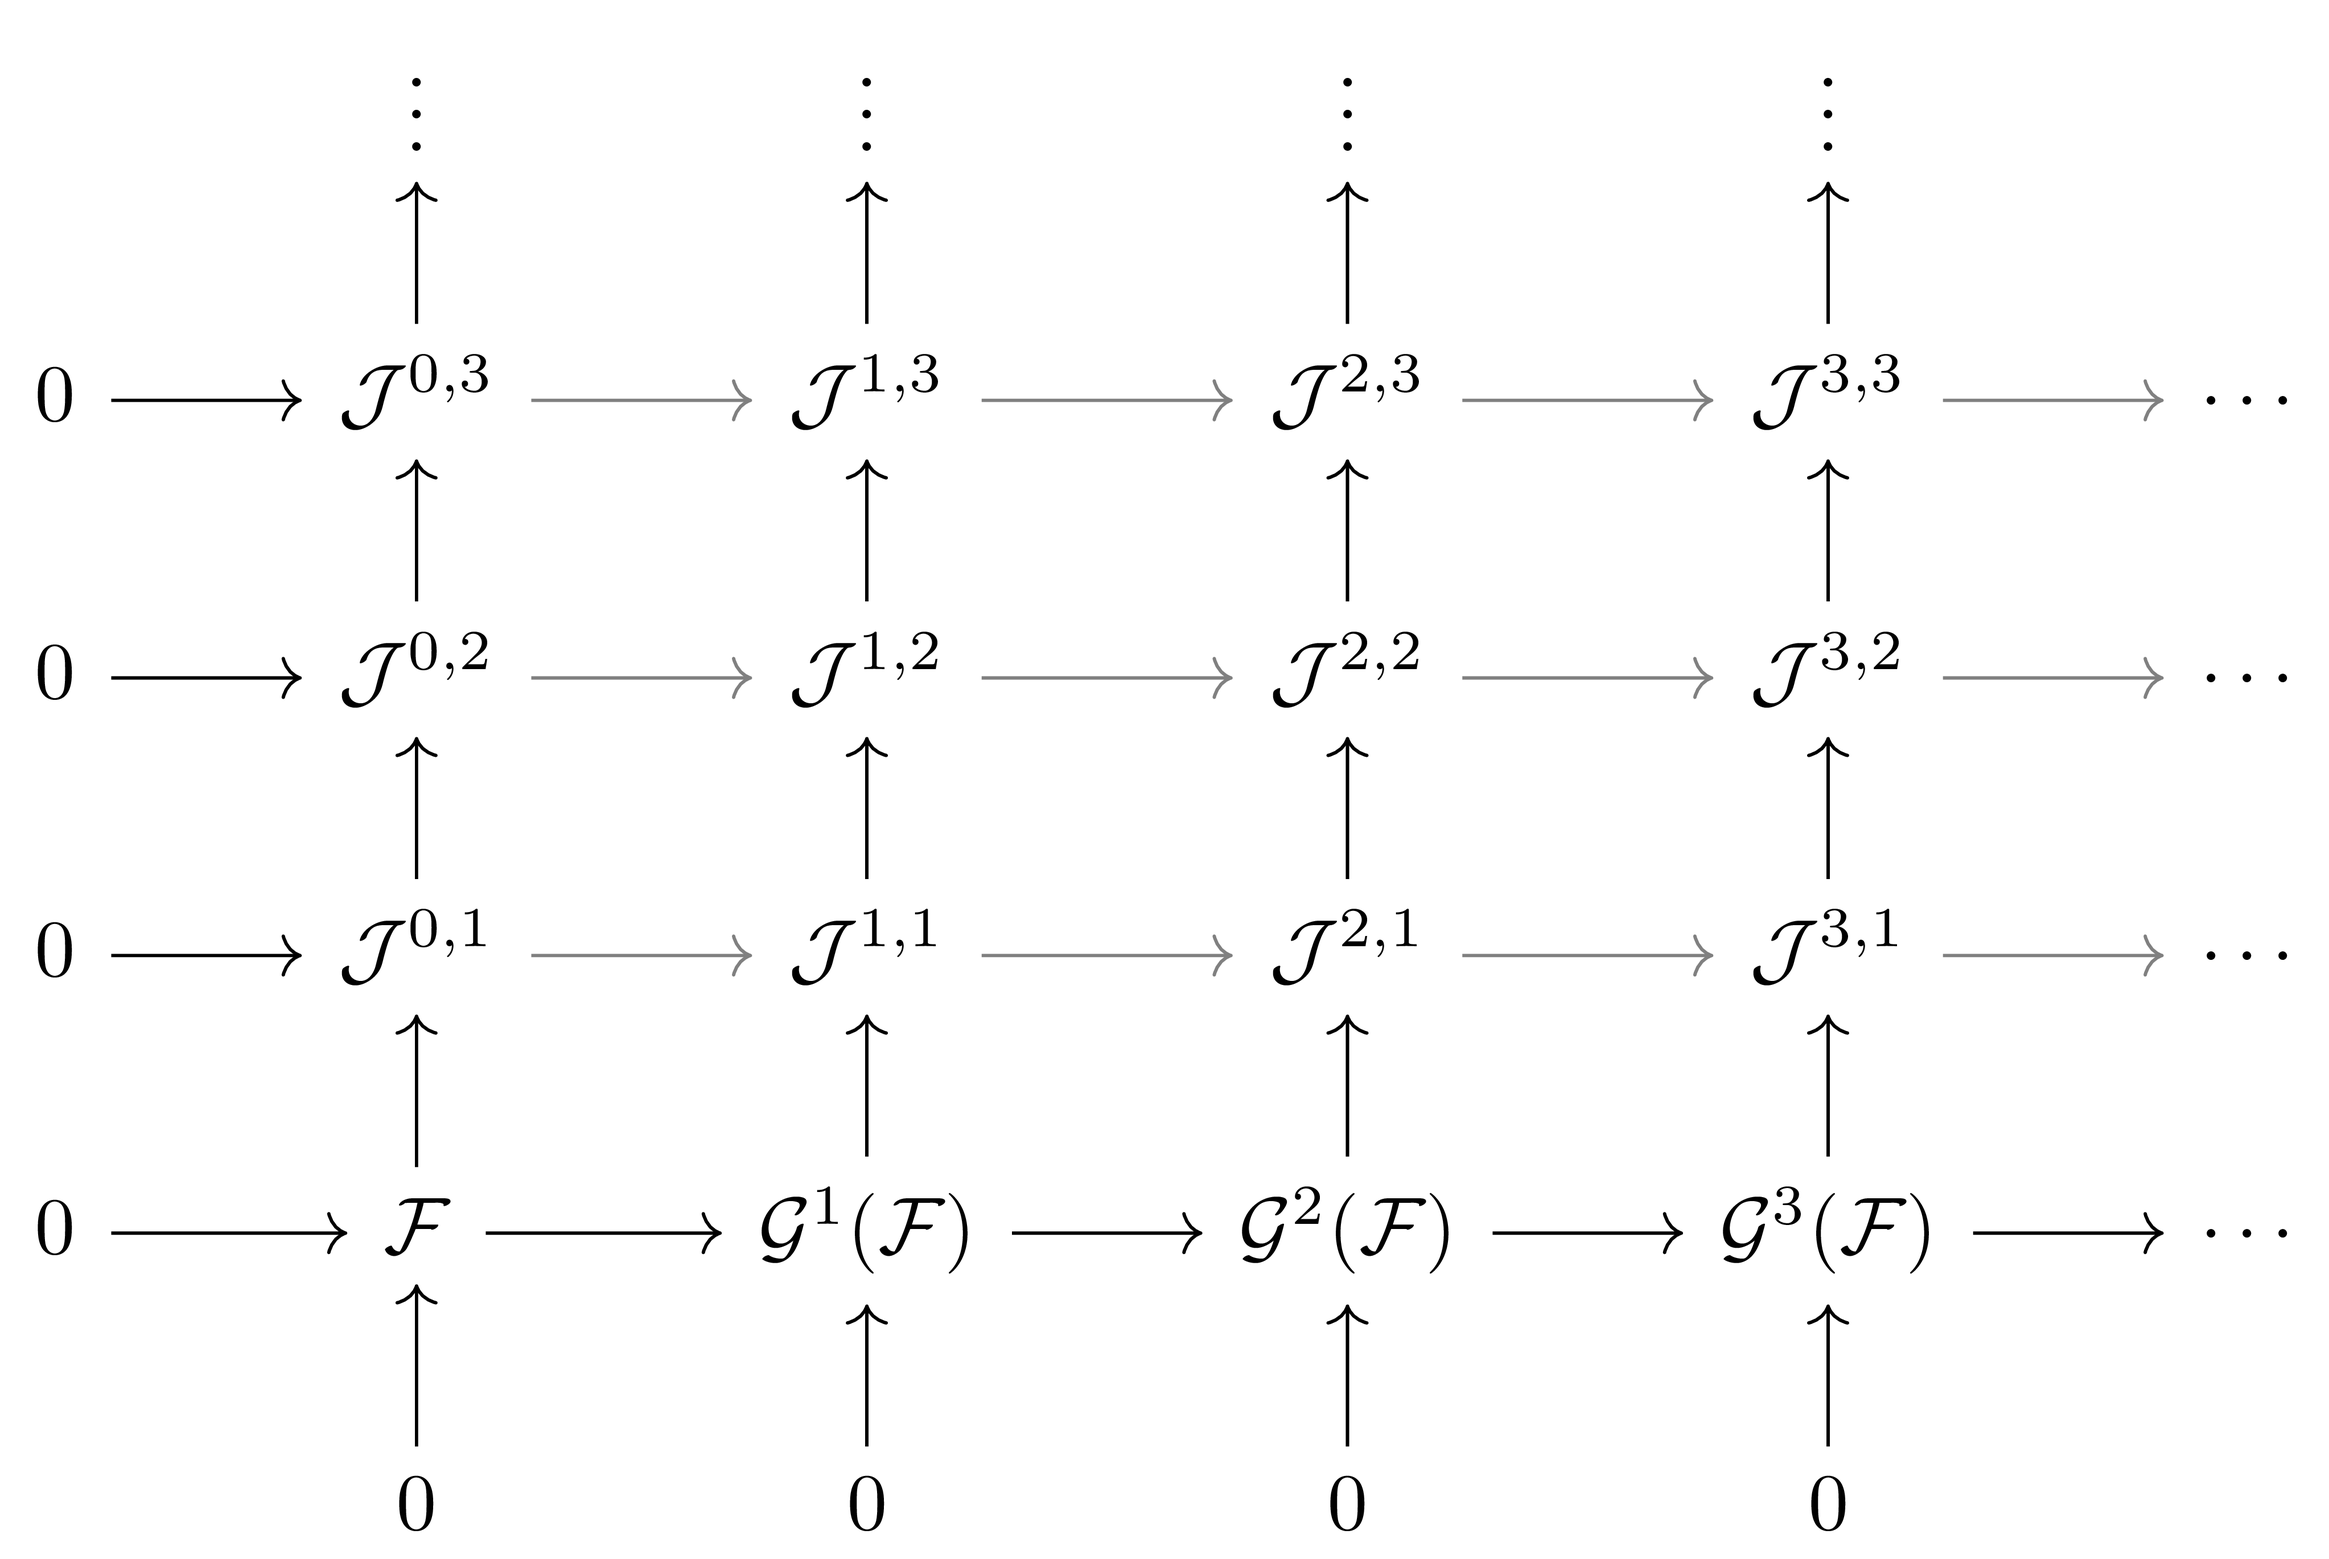
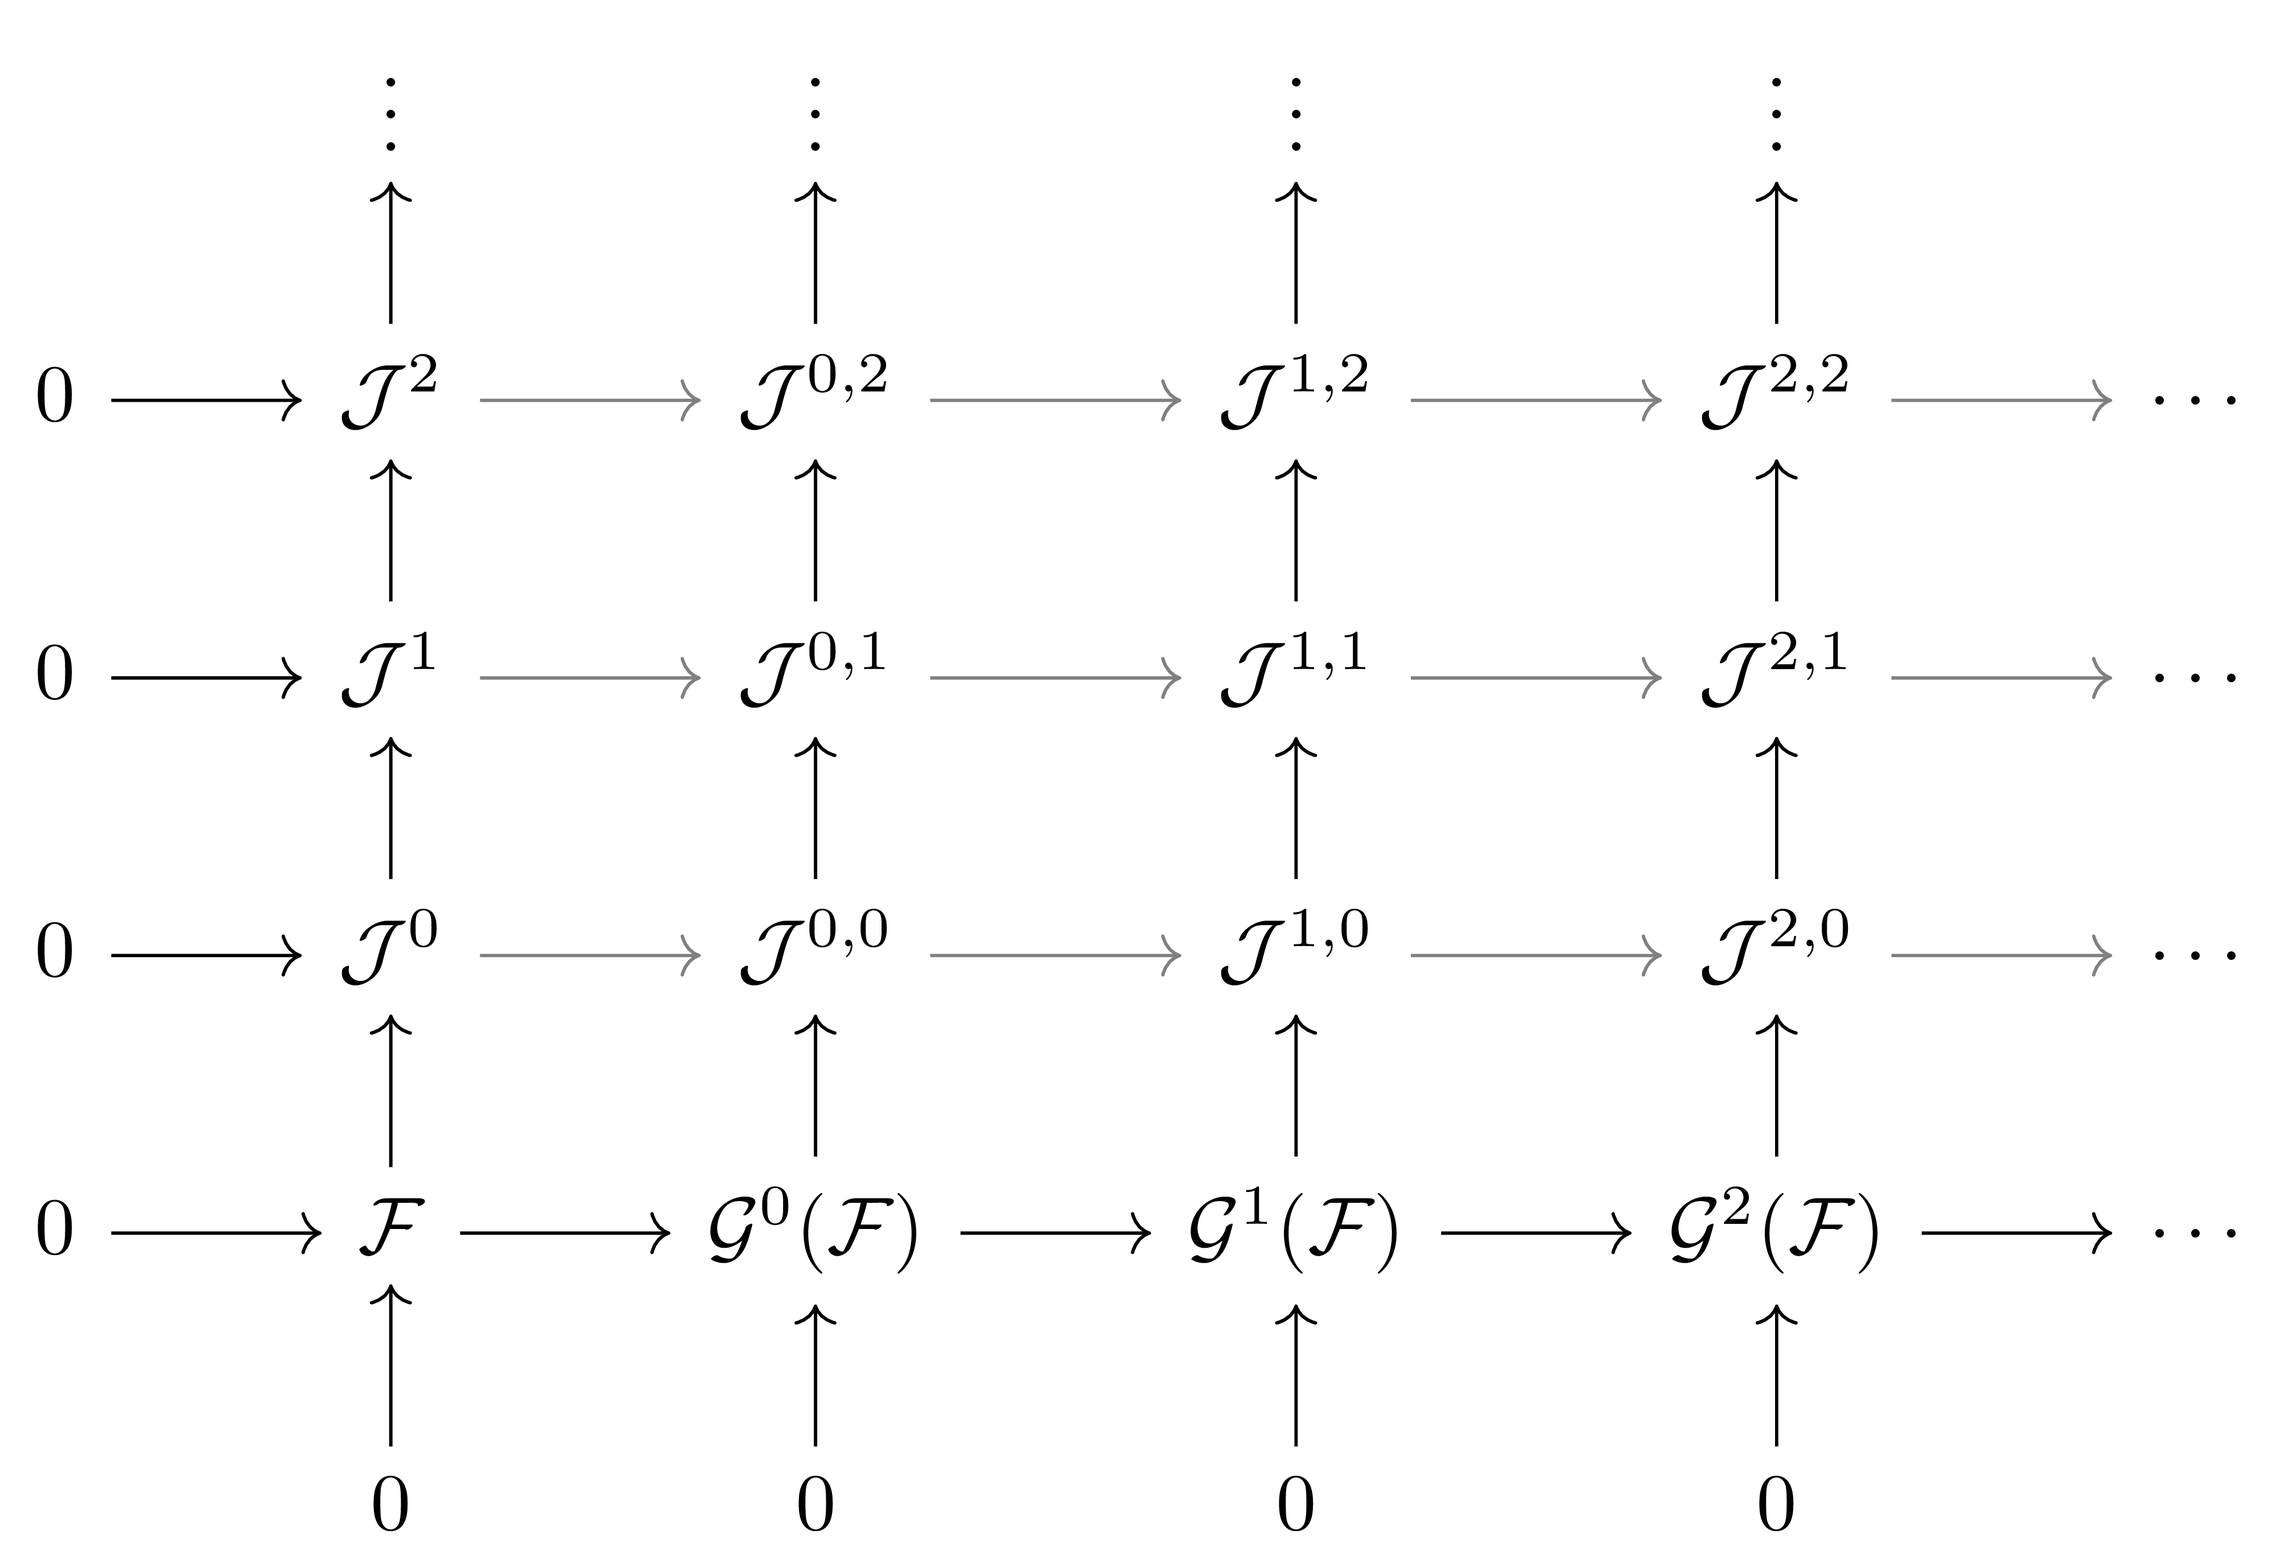
Openclaw Autosave
This is an autosave from OpenClaw. Major changes will be recorded manually with detailed commit message.

diff --git a/assets/diagrams/Math/Algebraic_Geometry/Algebraic_geometry.tex b/assets/diagrams/Math/Algebraic_Geometry/Algebraic_geometry.tex
@@ -7,13 +7,13 @@
 \usetikzlibrary{arrows.meta}
 \begin{document}
 
-%% Leray_double_sequence (Sheaf_Cohomology-2.png)
+%% Leray_double_sequence-1 (Sheaf_Cohomology-3.png)
 \begin{tikzcd}
 	& \vdots & \vdots & \vdots & \vdots & \\
-	0 & {\mathcal{J}^{0,3}} & {\mathcal{J}^{1,3}} & {\mathcal{J}^{2,3}} & {\mathcal{J}^{3,3}} & \cdots \\
-	0 & {\mathcal{J}^{0,2}} & {\mathcal{J}^{1,2}} & {\mathcal{J}^{2,2}} & {\mathcal{J}^{3,2}} & \cdots \\
-	0 & {\mathcal{J}^{0,1}} & {\mathcal{J}^{1,1}} & {\mathcal{J}^{2,1}} & {\mathcal{J}^{3,1}} & \cdots \\
-	0 & {\mathcal{F}} & {\mathcal{G}^1(\mathcal{F})} & {\mathcal{G}^2(\mathcal{F})} & {\mathcal{G}^3(\mathcal{F})} & \cdots \\
+	0 & {\mathcal{J}^{2}} & {\mathcal{J}^{0,2}} & {\mathcal{J}^{1,2}} & {\mathcal{J}^{2,2}} & \cdots \\
+	0 & {\mathcal{J}^{1}} & {\mathcal{J}^{0,1}} & {\mathcal{J}^{1,1}} & {\mathcal{J}^{2,1}} & \cdots \\
+	0 & {\mathcal{J}^{0}} & {\mathcal{J}^{0,0}} & {\mathcal{J}^{1,0}} & {\mathcal{J}^{2,0}} & \cdots \\
+	0 & {\mathcal{F}} & {\mathcal{G}^0(\mathcal{F})} & {\mathcal{G}^1(\mathcal{F})} & {\mathcal{G}^2(\mathcal{F})} & \cdots \\
 	& 0 & 0 & 0 & 0
 	\arrow[from=2-1, to=2-2]
 	\arrow[from=2-2, to=1-2]
@@ -610,4 +610,54 @@
 \begin{tikzcd}
 0 \arrow[r] & {\mathcal{F}(U)} \arrow[r] \arrow[d] & {\mathcal{I}(U)} \arrow[r] \arrow[d] & {\mathcal{Q}(U)} \arrow[r] \arrow[d] & 0 \\
 0 \arrow[r] & {\mathcal{F}(V)} \arrow[r] & {\mathcal{I}(V)} \arrow[r] & {\mathcal{Q}(V)} \arrow[r] & 0
+\end{tikzcd}
+
+% Leray_double_sequence (Sheaf_Cohomology-2.png)
+\begin{tikzcd}
+	& \vdots & \vdots & \vdots & \vdots & \\
+	0 & {\mathcal{J}^{2}} & {\mathcal{J}^{0,2}} & {\mathcal{J}^{1,2}} & {\mathcal{J}^{2,2}} & \cdots \\
+	0 & {\mathcal{J}^{1}} & {\mathcal{J}^{0,1}} & {\mathcal{J}^{1,1}} & {\mathcal{J}^{2,1}} & \cdots \\
+	0 & {\mathcal{J}^{0}} & {\mathcal{J}^{0,0}} & {\mathcal{J}^{1,0}} & {\mathcal{J}^{2,0}} & \cdots \\
+	0 & {\mathcal{F}} & {\mathcal{G}^0(\mathcal{F})} & {\mathcal{G}^1(\mathcal{F})} & {\mathcal{G}^2(\mathcal{F})} & \cdots \\
+	& 0 & 0 & 0 & 0
+	\arrow[from=2-1, to=2-2]
+	\arrow[from=2-2, to=1-2]
+	\arrow[color={rgb,255:red,128;green,128;blue,128}, from=2-2, to=2-3]
+	\arrow[from=2-3, to=1-3]
+	\arrow[color={rgb,255:red,128;green,128;blue,128}, from=2-3, to=2-4]
+	\arrow[from=2-4, to=1-4]
+	\arrow[color={rgb,255:red,128;green,128;blue,128}, from=2-4, to=2-5]
+	\arrow[from=2-5, to=1-5]
+	\arrow[color={rgb,255:red,128;green,128;blue,128}, from=2-5, to=2-6]
+	\arrow[from=3-1, to=3-2]
+	\arrow[from=3-2, to=2-2]
+	\arrow[color={rgb,255:red,128;green,128;blue,128}, from=3-2, to=3-3]
+	\arrow[from=3-3, to=2-3]
+	\arrow[color={rgb,255:red,128;green,128;blue,128}, from=3-3, to=3-4]
+	\arrow[from=3-4, to=2-4]
+	\arrow[color={rgb,255:red,128;green,128;blue,128}, from=3-4, to=3-5]
+	\arrow[from=3-5, to=2-5]
+	\arrow[color={rgb,255:red,128;green,128;blue,128}, from=3-5, to=3-6]
+	\arrow[from=4-1, to=4-2]
+	\arrow[from=4-2, to=3-2]
+	\arrow[color={rgb,255:red,128;green,128;blue,128}, from=4-2, to=4-3]
+	\arrow[from=4-3, to=3-3]
+	\arrow[color={rgb,255:red,128;green,128;blue,128}, from=4-3, to=4-4]
+	\arrow[from=4-4, to=3-4]
+	\arrow[color={rgb,255:red,128;green,128;blue,128}, from=4-4, to=4-5]
+	\arrow[from=4-5, to=3-5]
+	\arrow[color={rgb,255:red,128;green,128;blue,128}, from=4-5, to=4-6]
+	\arrow[from=5-1, to=5-2]
+	\arrow[from=5-2, to=4-2]
+	\arrow[from=5-2, to=5-3]
+	\arrow[from=5-3, to=4-3]
+	\arrow[from=5-3, to=5-4]
+	\arrow[from=5-4, to=4-4]
+	\arrow[from=5-4, to=5-5]
+	\arrow[from=5-5, to=4-5]
+	\arrow[from=5-5, to=5-6]
+	\arrow[from=6-2, to=5-2]
+	\arrow[from=6-3, to=5-3]
+	\arrow[from=6-4, to=5-4]
+	\arrow[from=6-5, to=5-5]
 \end{tikzcd}
